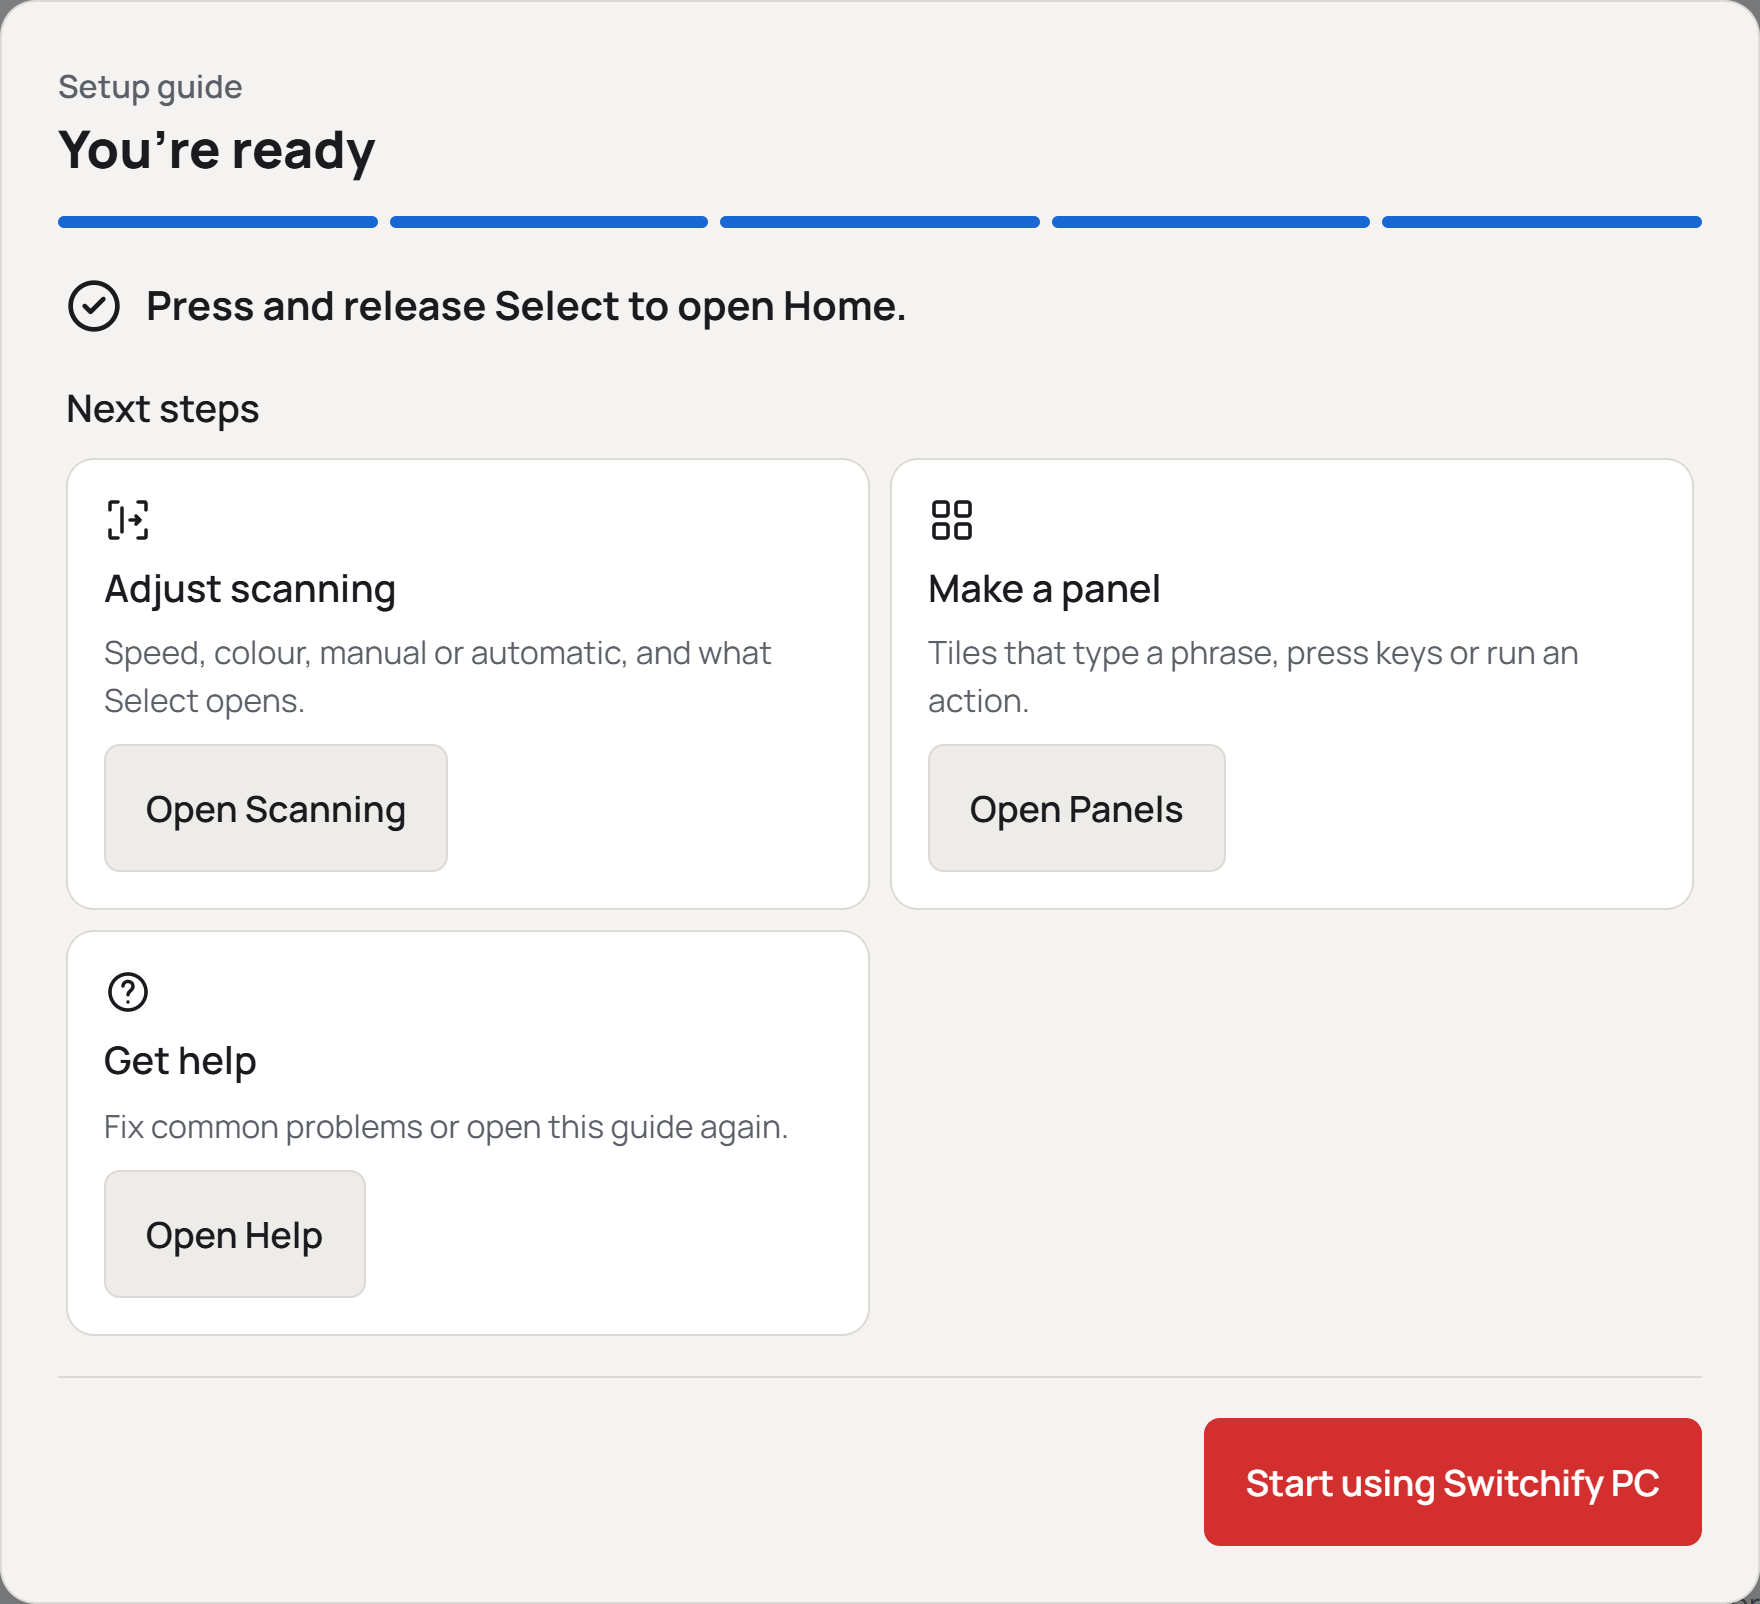
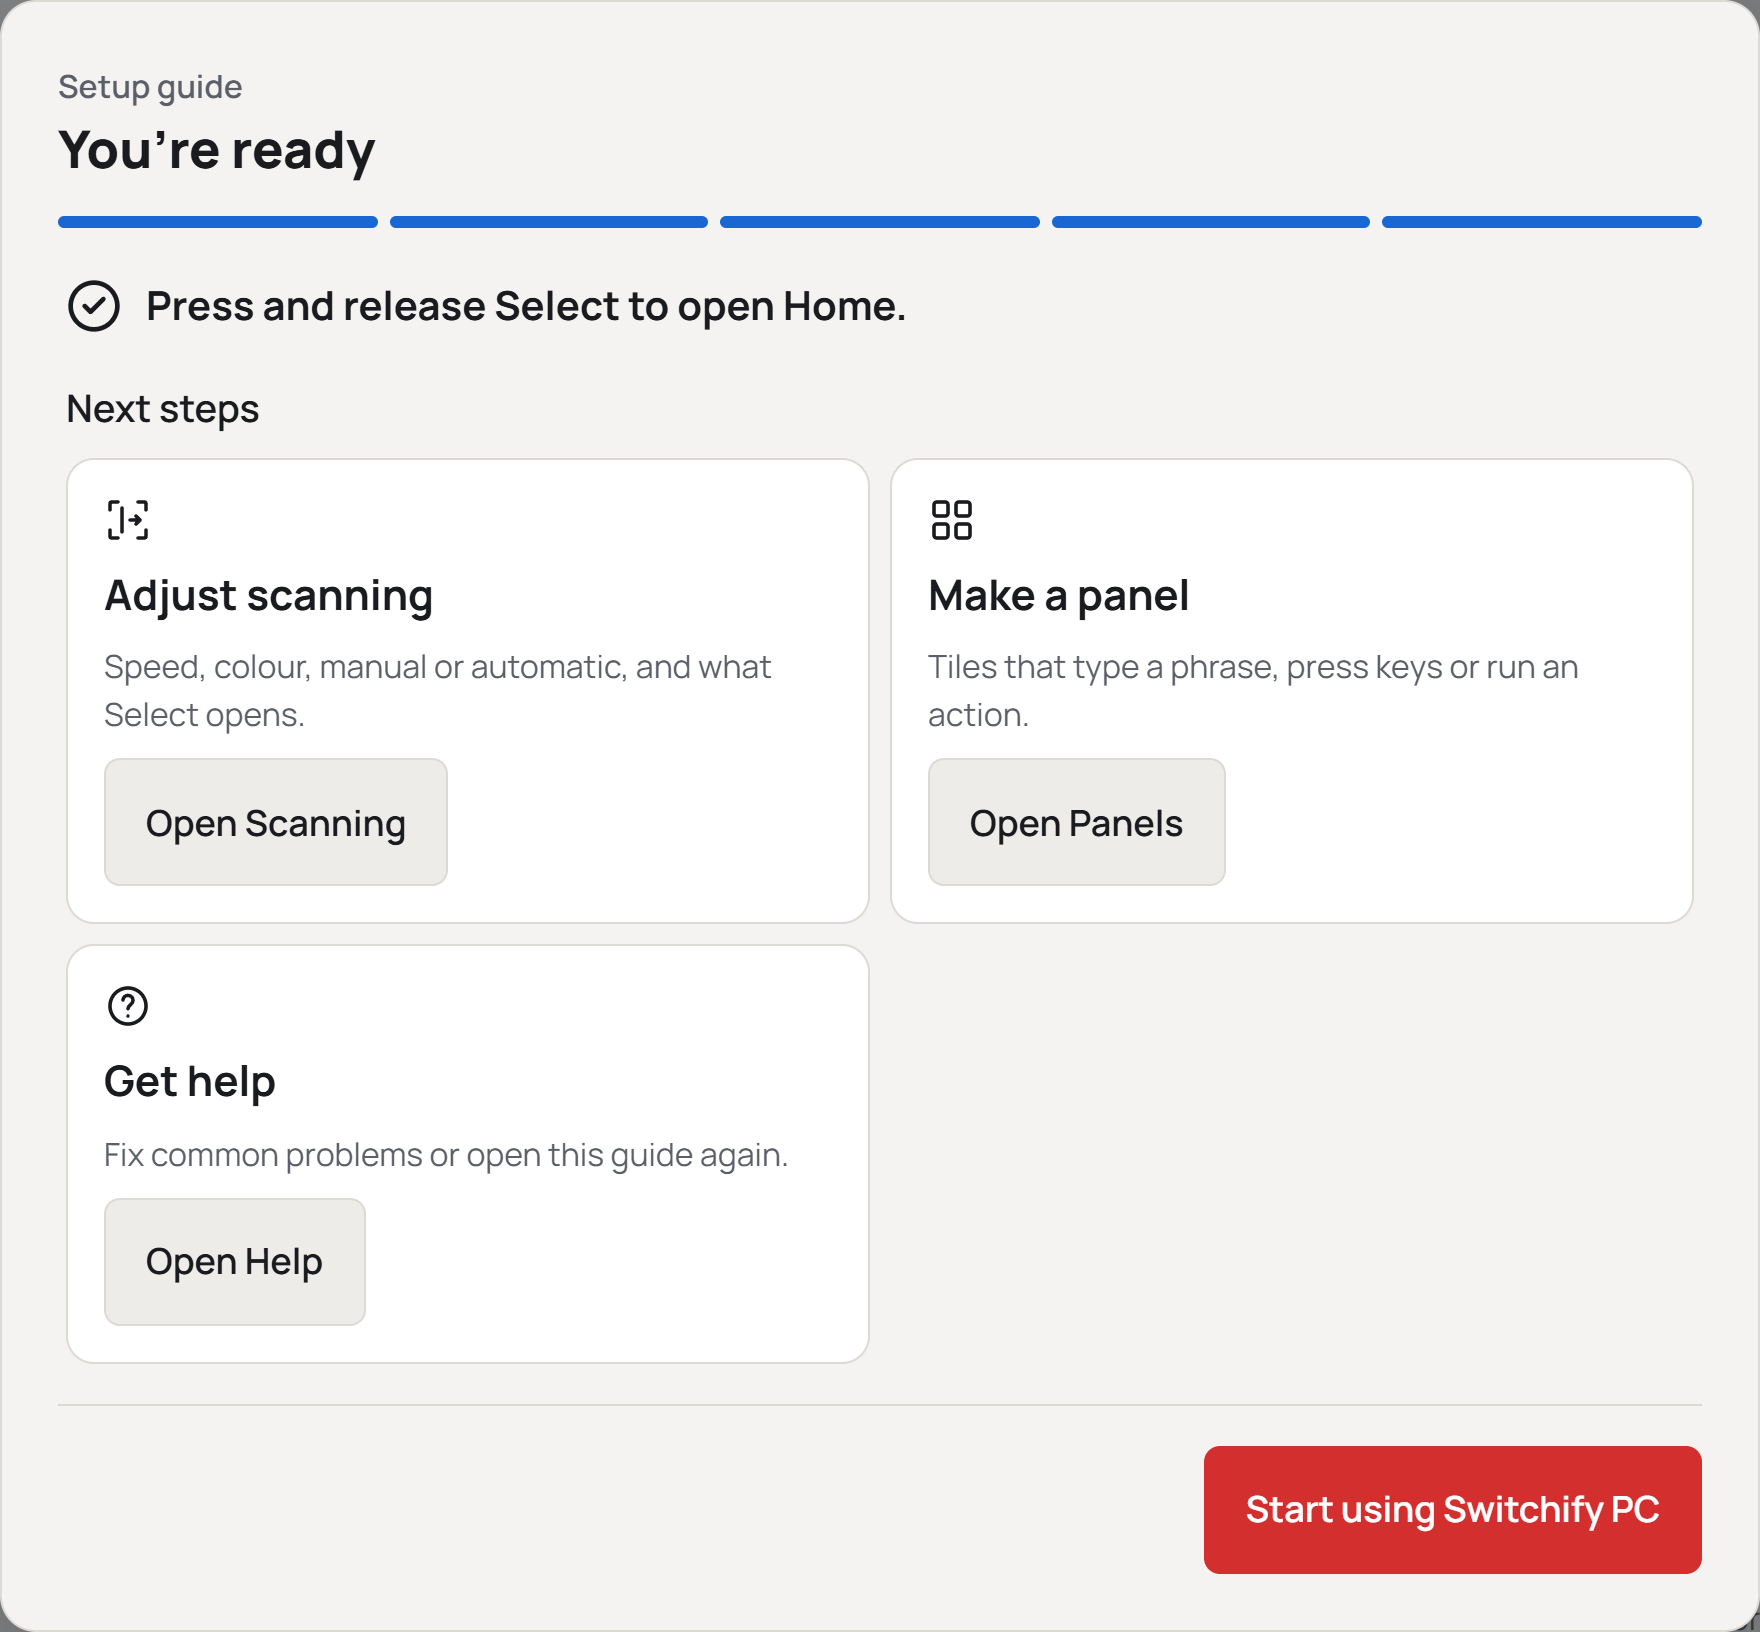
Address review of the setup guide ready screen
- Focus the new page in the sidebar after a ready-screen shortcut, so
  focus is not left on the page body when Help unmounts.
- Escape closes the ready screen; setup is already saved.
- The lead instruction describes the ready dialog, the next steps are
  labelled by their heading, and their own headings are h4.

Refs #1489

diff --git a/src/setup/SetupGuide.tsx b/src/setup/SetupGuide.tsx
@@ -114,18 +114,18 @@ export function SetupGuide({ state, switches, scanning, suspended, busy, error, 
 
   useEffect(() => { if (!suspended && !capturing) dialogRef.current?.focus(); }, [step, ready, suspended]);
 
-  if (ready) return <Dialog dialogRef={dialogRef} className="setup-dialog" backdropClassName="setup-backdrop" suspended={suspended} aria-labelledby="setup-title">
+  if (ready) return <Dialog dialogRef={dialogRef} className="setup-dialog" backdropClassName="setup-backdrop" suspended={suspended} onEscape={() => close()} aria-labelledby="setup-title" aria-describedby={`${guidanceId}-ready`}>
     <header><div><span>Setup guide</span><h2 id="setup-title">You’re ready</h2></div></header>
     <div className="setup-progress" aria-hidden="true" style={{ gridTemplateColumns: `repeat(${steps.length}, 1fr)` }}>{steps.map(id => <span key={id} data-active />)}</div>
     <div className="setup-content setup-ready">
-      <p className="setup-ready-lead"><CircleCheck size={28} />{connection === "phone"
+      <p className="setup-ready-lead" id={`${guidanceId}-ready`}><CircleCheck size={28} aria-hidden="true" />{connection === "phone"
         ? paired ? "Open PC control in Switchify on your phone to start." : "Pair your phone from Mobile when you are ready, then open PC control in Switchify."
         : hasSwitch ? "Press and release Select to open Home." : "Add a switch in Switches when you are ready, then press Select to open Home."}</p>
-      <h3>Next steps</h3>
-      <div className="task-list" role="group" aria-label="Next steps">
-        <article><PageIcon page="scanning" size={24} /><div><h3>Adjust scanning</h3><p>Speed, colour, manual or automatic, and what Select opens.</p></div><Button className="secondary" onClick={() => close("scanning")}>Open Scanning</Button></article>
-        <article><PageIcon page="panels" size={24} /><div><h3>Make a panel</h3><p>Tiles that type a phrase, press keys or run an action.</p></div><Button className="secondary" onClick={() => close("panels")}>Open Panels</Button></article>
-        <article><PageIcon page="support" size={24} /><div><h3>Get help</h3><p>Fix common problems or open this guide again.</p></div><Button className="secondary" onClick={() => close("support")}>Open Help</Button></article>
+      <h3 id={`${guidanceId}-next`}>Next steps</h3>
+      <div className="task-list" role="group" aria-labelledby={`${guidanceId}-next`}>
+        <article><PageIcon page="scanning" size={24} /><div><h4>Adjust scanning</h4><p>Speed, colour, manual or automatic, and what Select opens.</p></div><Button className="secondary" onClick={() => close("scanning")}>Open Scanning</Button></article>
+        <article><PageIcon page="panels" size={24} /><div><h4>Make a panel</h4><p>Tiles that type a phrase, press keys or run an action.</p></div><Button className="secondary" onClick={() => close("panels")}>Open Panels</Button></article>
+        <article><PageIcon page="support" size={24} /><div><h4>Get help</h4><p>Fix common problems or open this guide again.</p></div><Button className="secondary" onClick={() => close("support")}>Open Help</Button></article>
       </div>
     </div>
     <footer><span /><Button className="primary" onClick={() => close()}>Start using Switchify PC</Button></footer>

diff --git a/src/App.test.tsx b/src/App.test.tsx
@@ -582,9 +582,37 @@ describe("Switchify PC shell", () => {
     fireEvent.click(screen.getByRole("button", { name: "Finish" }));
     await screen.findByRole("dialog", { name: "You’re ready" });
     expect(screen.getByText("Press and release Select to open Home.")).toBeInTheDocument();
+    // The instruction describes the dialog, and the next steps are labelled by their heading.
+    expect(screen.getByRole("dialog", { name: "You’re ready" })).toHaveAccessibleDescription("Press and release Select to open Home.");
+    expect(screen.getByRole("group", { name: "Next steps" })).toBeInTheDocument();
+    expect(screen.getByRole("heading", { name: "Make a panel", level: 4 })).toBeInTheDocument();
     fireEvent.click(screen.getByRole("button", { name: "Open Panels" }));
     await waitFor(() => expect(screen.queryByRole("dialog")).not.toBeInTheDocument());
     expect(screen.getByRole("heading", { name: "Panels", level: 1 })).toBeInTheDocument();
+    // Focus lands on the new page's place in the sidebar, not on the page body.
+    await waitFor(() => expect(within(screen.getByRole("navigation", { name: "Pages" })).getByRole("button", { name: "Panels" })).toHaveFocus());
+  });
+
+  it("closes the ready screen with Escape, keeping setup saved", async () => {
+    const complete = vi.spyOn(api, "completeSetup").mockImplementation(async () => ({ ...structuredClone(browserState), setup: { shown: true, completed: true, autoOpenEligible: false } }));
+    browserState.bluetooth = "advertising";
+    browserState.pairedDevices = [{ deviceId: "phone", deviceName: "Pixel", pairedAt: 1, lastSeenAt: 1 }];
+    render(<App />);
+    fireEvent.click(await screen.findByRole("button", { name: "Help" }));
+    fireEvent.click(screen.getByRole("button", { name: "Open setup guide" }));
+    // A paired phone already answers how this person connects.
+    for (const step of ["How will you connect?", "Connect your phone", "Try it"]) {
+      expect(await screen.findByRole("dialog", { name: step })).toBeInTheDocument();
+      fireEvent.click(screen.getByRole("button", { name: "Next" }));
+    }
+    fireEvent.click(screen.getByRole("button", { name: "Start manually" }));
+    fireEvent.click(screen.getByRole("button", { name: "Don’t share" }));
+    fireEvent.click(screen.getByRole("button", { name: "Finish" }));
+    const ready = await screen.findByRole("dialog", { name: "You’re ready" });
+    expect(ready).toHaveAccessibleDescription("Open PC control in Switchify on your phone to start.");
+    fireEvent.keyDown(ready, { key: "Escape" });
+    await waitFor(() => expect(screen.queryByRole("dialog")).not.toBeInTheDocument());
+    expect(complete).toHaveBeenCalledTimes(1);
   });
 
   it("stays on the last choices when saving setup fails", async () => {

diff --git a/src/ui/app.css b/src/ui/app.css
@@ -831,6 +831,8 @@ fieldset:disabled :is(.color-options, .scanner-colours) label:not(:has(input:che
 .setup-last-choices .setup-choices { margin-top: 16px; }
 .setup-content p.setup-ready-lead { display: flex; align-items: center; gap: 12px; margin: 0 0 24px; color: var(--text); font-size: 20px; font-weight: 700; }
 .setup-ready > h3 { margin-bottom: 12px; }
+/* The next steps sit under their own heading, so they are h4 but look like the task cards elsewhere. */
+.setup-ready .task-list h4 { margin: 0; font-size: 1.17em; font-weight: 700; }
 .setup-privacy { margin-top: 16px; color: var(--brand-label); }
 .setup-navigation-guidance { flex: 0 0 auto; margin: 0; color: var(--muted); line-height: 1.5; }
 .setup-navigation-guidance:not(:empty) { padding-top: 12px; }

diff --git a/src/App.tsx b/src/App.tsx
@@ -564,7 +564,11 @@ export function App() {
   };
   const closeSetup = (page?: View) => {
     setSetupOpen(false);
-    if (page) selectView(page);
+    if (!page) return;
+    selectView(page);
+    // The page that opened the guide may be gone, so focus lands on the new page's
+    // place in the sidebar rather than on the page body.
+    requestAnimationFrame(() => document.querySelector<HTMLElement>('nav[aria-label="Pages"] [aria-current="page"]')?.focus());
   };
 
   const skipSetup = async () => {

diff --git a/site/src/content/docs/get-started/install.md b/site/src/content/docs/get-started/install.md
@@ -76,9 +76,9 @@ The first time Switchify PC opens, a guide walks you through:
 
    ![The Last choices step, with Start with system chosen and Don’t share chosen.](../../../assets/screenshots/setup-last-choices.png)
 
-7. **You’re ready.** After **Finish** saves your choices, the guide says what to do next, such as pressing Select to open Home. It also offers shortcuts to **Scanning**, **Panels** and **Help**. Choose **Start using Switchify PC** to close the guide, or a shortcut to close it and open that page.
+7. **You’re ready.** After **Finish** saves your choices, the guide says what to do next, such as pressing Select to open Home. It also offers shortcuts to **Scanning**, **Panels** and **Help**. Choose **Start using Switchify PC**, or press **Escape**, to close the guide, or choose a shortcut to close it and open that page. Your choices are already saved.
 
-   ![The You're ready screen, saying Press and release Select to open Home, with Open Scanning, Open Panels and Open Help shortcuts and a Start using Switchify PC button.](../../../assets/screenshots/setup-ready.png)
+   ![The You’re ready screen, saying Press and release Select to open Home, with Open Scanning, Open Panels and Open Help shortcuts and a Start using Switchify PC button.](../../../assets/screenshots/setup-ready.png)
 
 You can skip the guide with **Skip setup for now** and reopen it later from Help.
 
